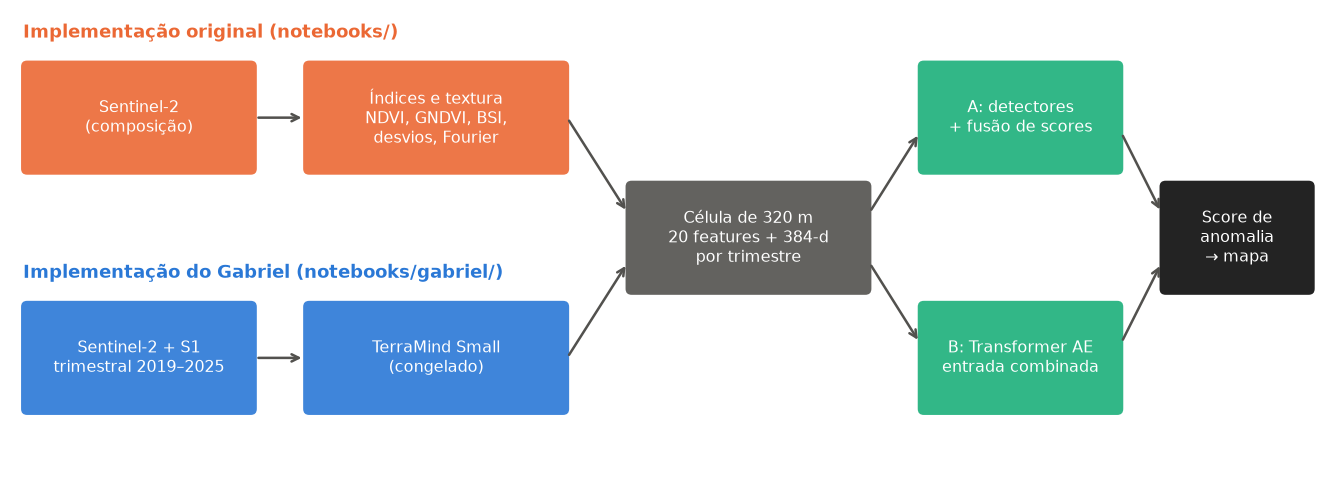
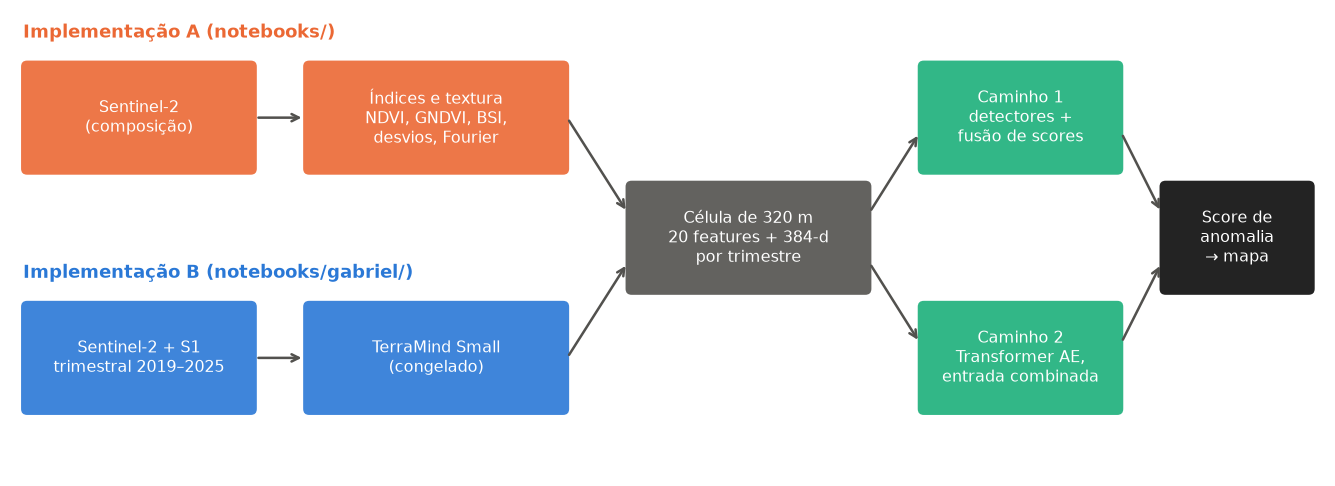
Ajustes Finais

diff --git a/notebooks/gabriel/figuras.py b/notebooks/gabriel/figuras.py
@@ -132,15 +132,15 @@ def _seta(ax, x0, y0, x1, y1):
 def fig_pipeline():
     fig, ax = plt.subplots(figsize=(13, 4.6))
     ax.set_xlim(0, 13); ax.set_ylim(0, 4.6); ax.axis('off')
-    ax.text(0.1, 4.35, 'Implementação original (notebooks/)', color=CAT[1], fontsize=10, weight='bold')
-    ax.text(0.1, 1.95, 'Implementação do Gabriel (notebooks/gabriel/)', color=CAT[0], fontsize=10, weight='bold')
+    ax.text(0.1, 4.35, 'Implementação A (notebooks/)', color=CAT[1], fontsize=10, weight='bold')
+    ax.text(0.1, 1.95, 'Implementação B (notebooks/gabriel/)', color=CAT[0], fontsize=10, weight='bold')
     _caixa(ax, 0.1, 3.0, 2.3, 1.1, 'Sentinel-2\n(composição)', CAT[1])
     _caixa(ax, 2.9, 3.0, 2.6, 1.1, 'Índices e textura\nNDVI, GNDVI, BSI,\ndesvios, Fourier', CAT[1])
     _caixa(ax, 0.1, 0.6, 2.3, 1.1, 'Sentinel-2 + S1\ntrimestral 2019–2025', CAT[0])
     _caixa(ax, 2.9, 0.6, 2.6, 1.1, 'TerraMind Small\n(congelado)', CAT[0])
     _caixa(ax, 6.1, 1.8, 2.4, 1.1, 'Célula de 320 m\n20 features + 384-d\npor trimestre', MUTED)
-    _caixa(ax, 9.0, 3.0, 2.0, 1.1, 'A: detectores\n+ fusão de scores', CAT[2])
-    _caixa(ax, 9.0, 0.6, 2.0, 1.1, 'B: Transformer AE\nentrada combinada', CAT[2])
+    _caixa(ax, 9.0, 3.0, 2.0, 1.1, 'Caminho 1\ndetectores +\nfusão de scores', CAT[2])
+    _caixa(ax, 9.0, 0.6, 2.0, 1.1, 'Caminho 2\nTransformer AE,\nentrada combinada', CAT[2])
     _caixa(ax, 11.4, 1.8, 1.5, 1.1, 'Score de\nanomalia\n→ mapa', INK)
     for a in [(2.4, 3.55, 2.9, 3.55), (2.4, 1.15, 2.9, 1.15), (5.5, 3.55, 6.1, 2.6), (5.5, 1.15, 6.1, 2.1),
               (8.5, 2.6, 9.0, 3.4), (8.5, 2.1, 9.0, 1.3), (11.0, 3.4, 11.4, 2.6), (11.0, 1.3, 11.4, 2.1)]:
